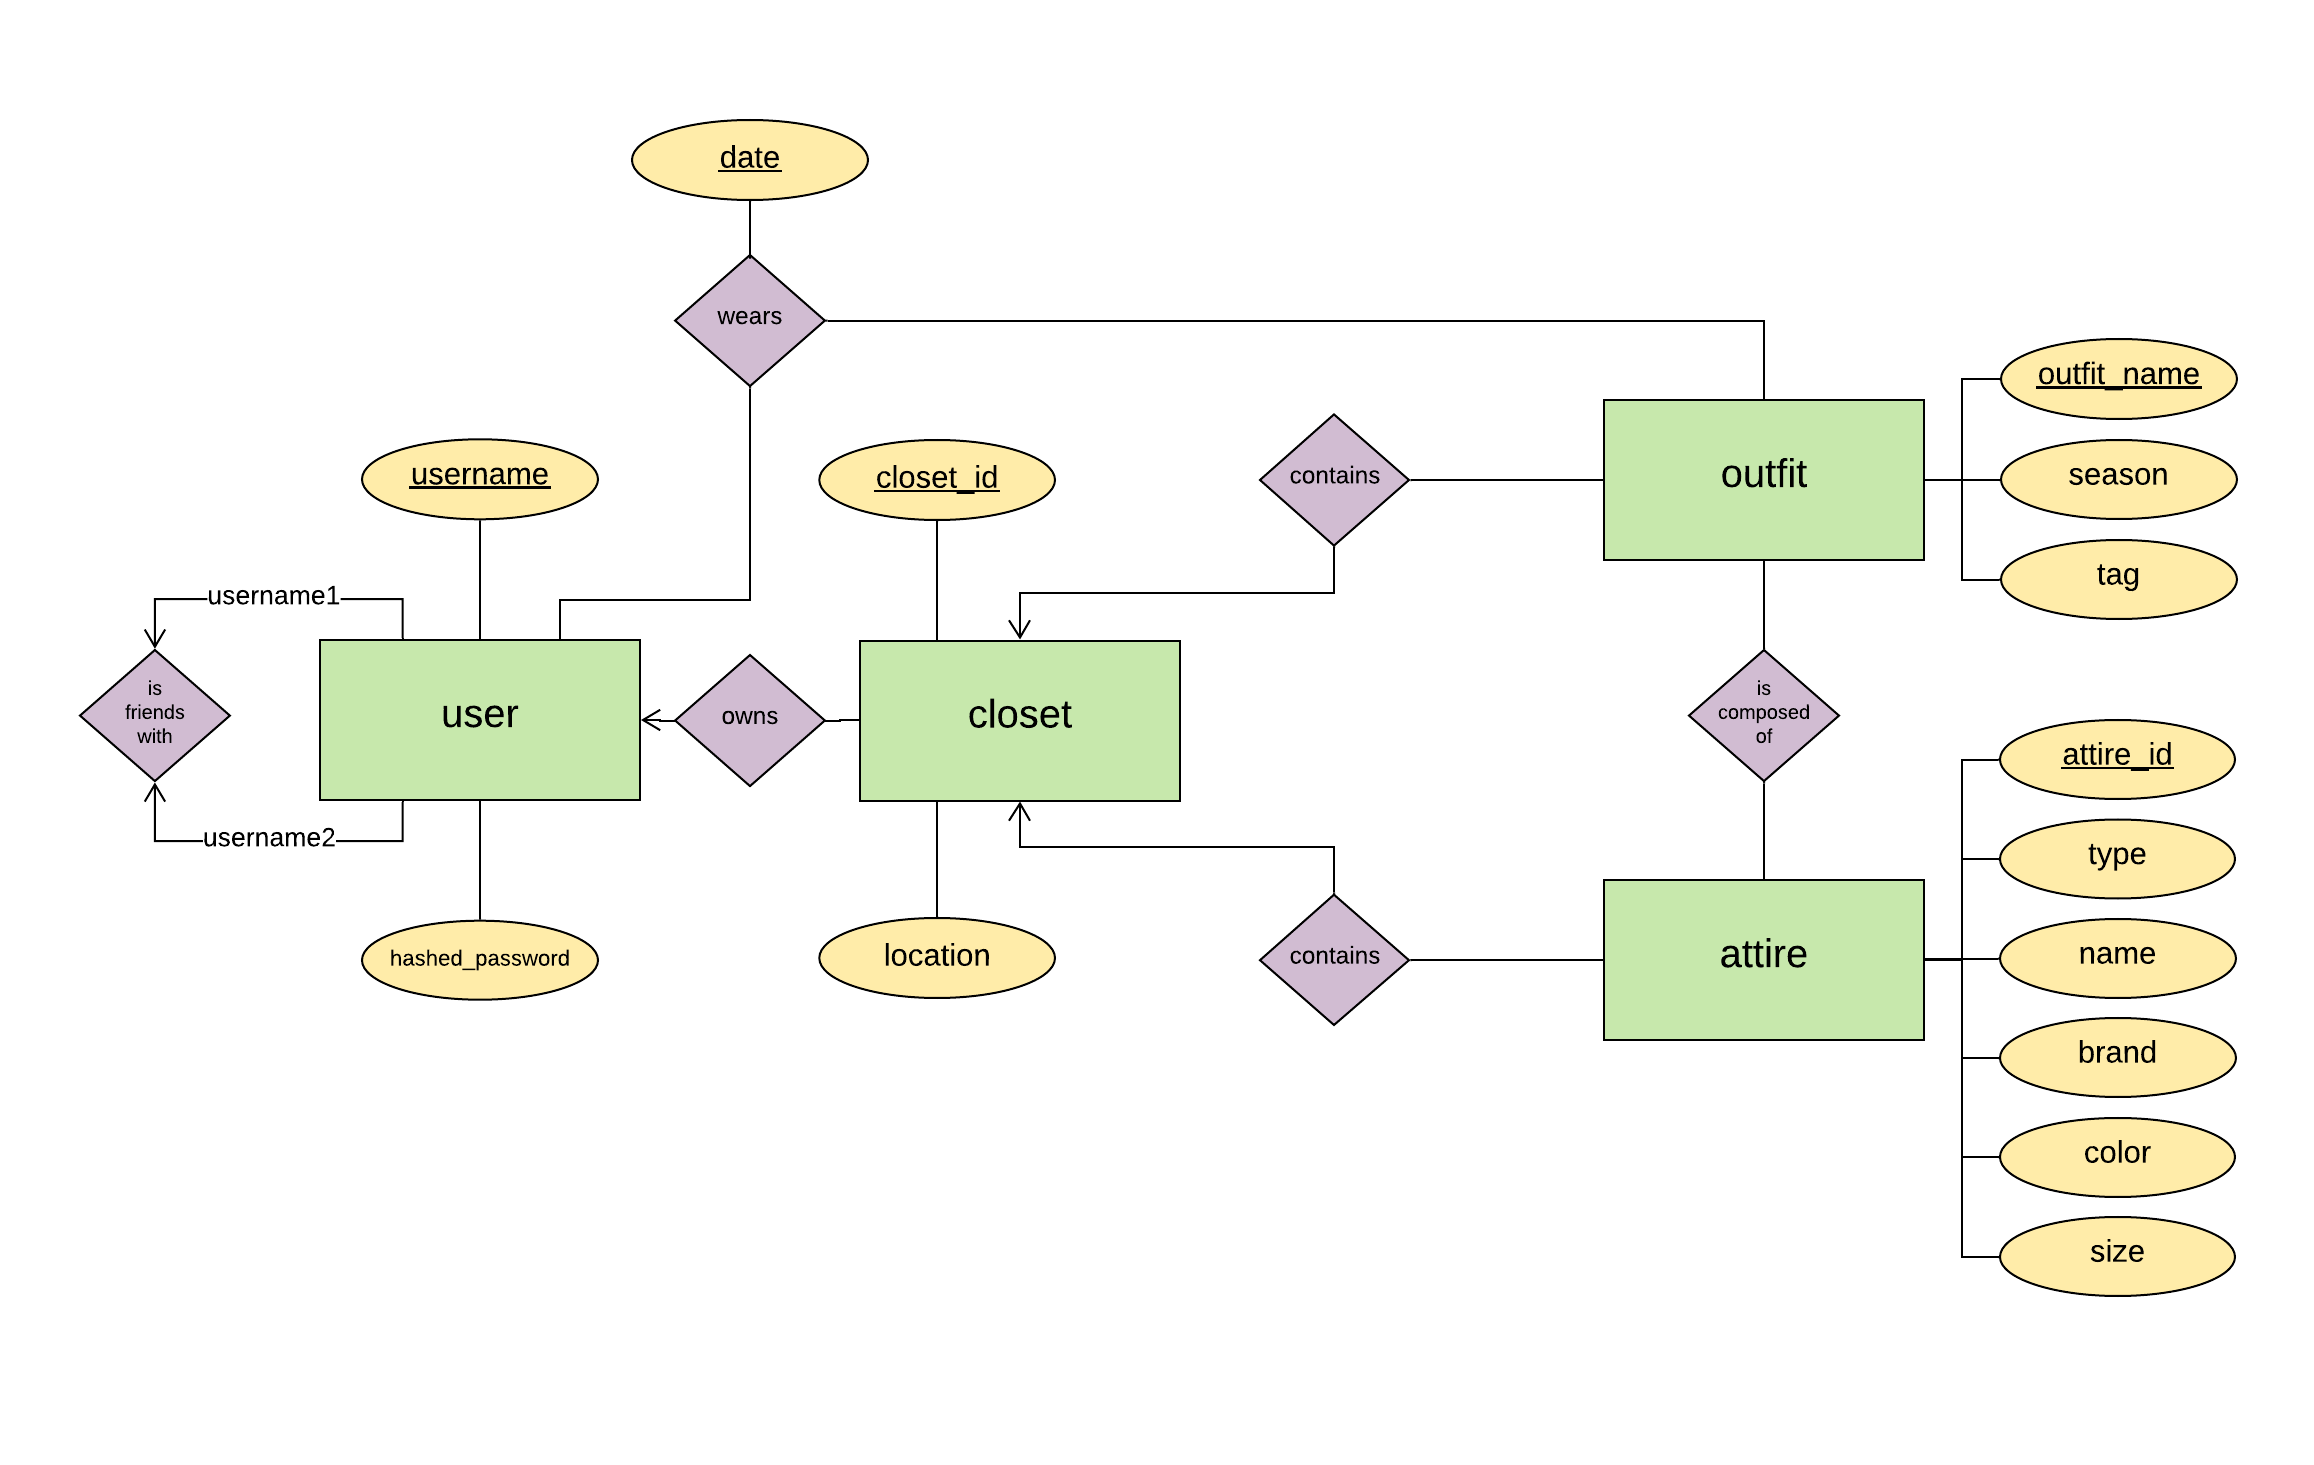
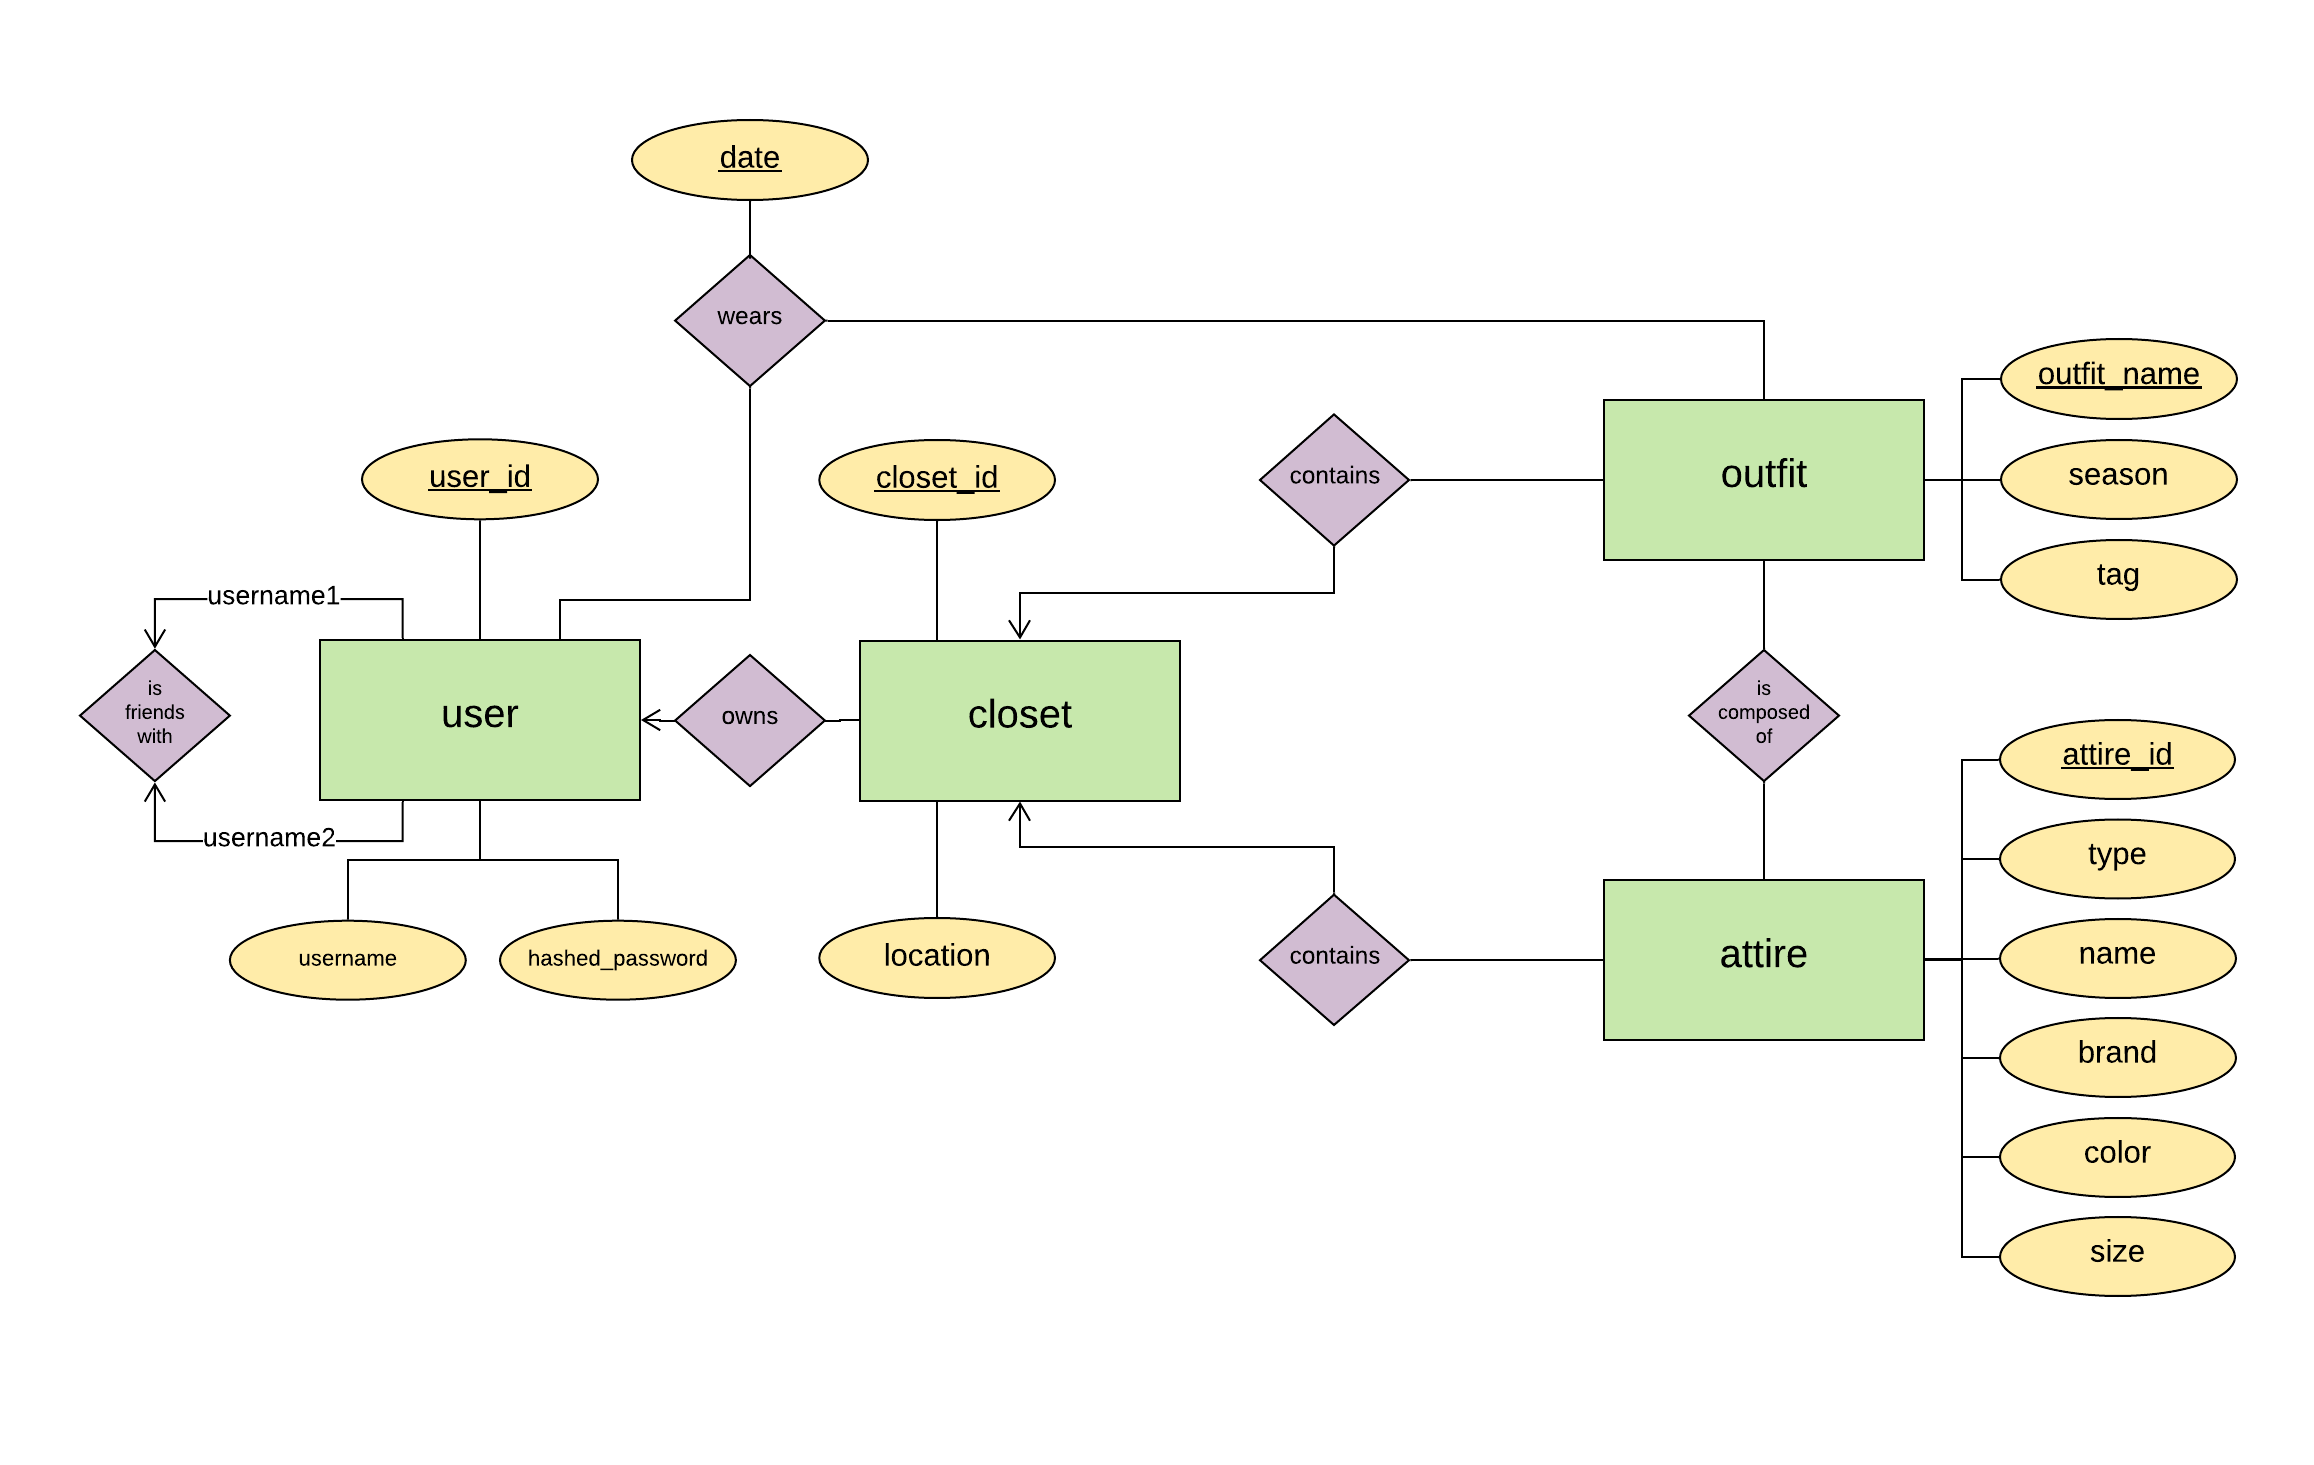
Update DB schema
Add user_id to user entity set

Changed region(s): [[0.0933, 0.6143, 0.3423, 0.7065], [0.1867, 0.3072, 0.2489, 0.3379]]

diff --git a/express-app/routes/register.js b/express-app/routes/register.js
@@ -23,7 +23,9 @@ router.post('/', async (req, res, next) => {
             }
         })
 
-        const query = `INSERT INTO user VALUES ('${req.body.username}', '${hashed_password}');`;
+        let user_id = Date.now();
+
+        const query = `INSERT INTO user VALUES ('${user_id}', '${req.body.username}', '${hashed_password}');`;
 
         database.query(query, (err, results) => {
             if (err) throw err;
@@ -33,7 +35,6 @@ router.post('/', async (req, res, next) => {
         res.redirect('/register');
     }
     finally {
-        //connection.close();
         res.redirect('/login');
     }
 

diff --git a/docs/Project_Data_Model_And_Database Designs/Project_Data_Model_and_Database_Design_v3.md b/docs/Project_Data_Model_And_Database Designs/Project_Data_Model_and_Database_Design_v3.md
@@ -8,7 +8,7 @@
 
 ### user
 
-User is an entity set with two attributes: a unique username and password. They key of user is username. The user entity set represents users of the application and their login information.
+User is an entity set with three attributes: a unique id, a unique username and password. They key of user is user_id. The user entity set represents users of the application and their login information.
 
 ### closet
 
@@ -52,7 +52,7 @@ A user can have zero to many friends.
 
 ### Entity Sets
 
-* user (<ins>username</ins>, hashed_password)
+* user (<ins>user_id</ins>, username, hashed_password)
 * closet (<ins>closet_id</ins>, location)
 * outfit (<ins>outfit_name</ins>, season, tag)
 * attire (<ins>attire_id</ins>, type, name, brand, color, size)
